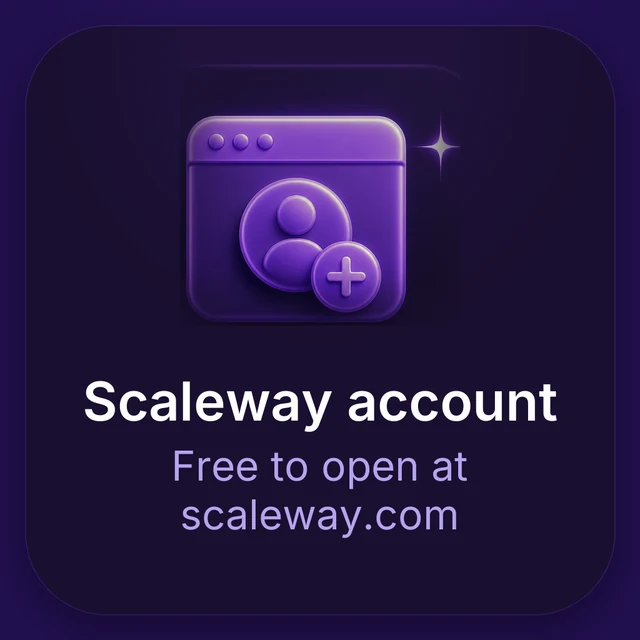
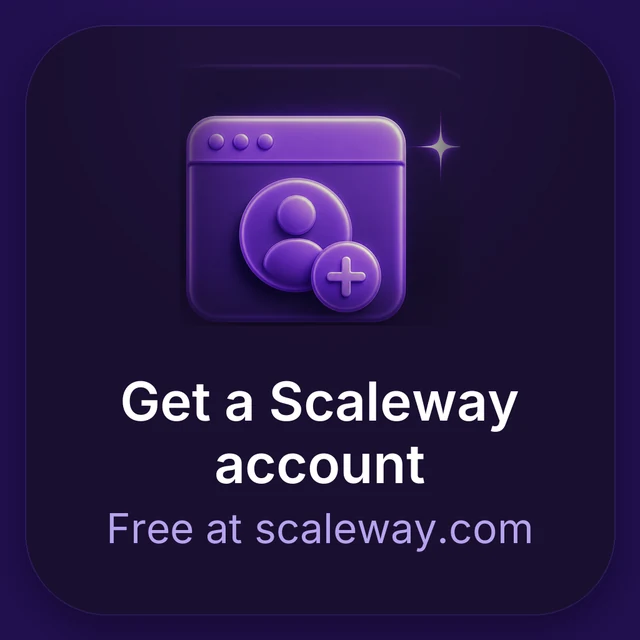
Three-step setup strip, source link, and the name explained
Content-only redeploy of the 1.3.1 page — same version, same release date, same
installers and checksums.

- The setup strip drops from five cards to three. Pasting the key and chatting
  described what happens after the key exists, which a reader on the download
  page cannot act on, and they pushed the download buttons toward the fold.
  What they said is now prose under the strip, where it can be specific about
  the thing that catches people out: Scaleway shows the key once.
- The footer links the public source, on the download page and the policy
  pages, so "free and open source" has somewhere to go.
- One line on where the name comes from.
- The affiliation line drops Ollama, which the page no longer mentions
  anywhere else.

Changed region(s): [[0.125, 0.5938, 0.875, 0.875]]

diff --git a/index.html b/index.html
@@ -57,10 +57,12 @@
       color: var(--muted);
     }
 
-    /* Five steps from download to first answer, shown before the buttons so a
-       reader knows what they are committing to. Auto-fit rather than fixed
-       columns, so it reflows to fewer per row on a narrow screen instead of
-       scrolling sideways or crushing the text. */
+    /* Three steps, each one a thing the reader does before the app can run.
+       Pasting the key and chatting used to be cards four and five; they are
+       prose below the strip now, because a card can only hold a caption and the
+       one thing that catches people out — the key is shown once — needs a
+       sentence. Auto-fit rather than fixed columns, so it reflows to fewer per
+       row on a narrow screen instead of scrolling sideways or crushing text. */
     .steps {
       display: grid;
       grid-template-columns: repeat(auto-fit, minmax(168px, 1fr));
@@ -118,18 +120,6 @@
     a.step-art { text-decoration: none; }
     a.step-art:hover img { outline: 2px solid var(--accent); outline-offset: -1px; }
 
-    /* The payoff step, marked so the eye lands on where this is going. The ring
-       goes on the picture, since the picture is the card. */
-    .step.done .step-art img {
-      outline: 2px solid color-mix(in srgb, var(--accent) 62%, transparent);
-      outline-offset: -1px;
-    }
-    .step.done .step-n {
-      background: var(--accent);
-      border-color: var(--accent);
-      color: #fff;
-    }
-
     /* Chevrons between steps, drawn only when they are actually side by side.
        Decorative: the numbers carry the order for anyone who cannot see them. */
     @media (min-width: 900px) {
@@ -178,9 +168,23 @@
     .sums td.file { white-space: nowrap; padding-right: 16px; }
     .sums code { font-family: ui-monospace, SFMono-Regular, Menlo, monospace; word-break: break-all; color: var(--muted); }
 
+    /* The half of setup that a caption cannot carry. Sits under the strip and
+       inside the text column, so it reads as its footnote, not a new section. */
+    .steps-note {
+      margin: -18px 0 32px;
+      color: var(--muted);
+      font-size: 14px;
+      line-height: 1.65;
+    }
+    .steps-note strong { color: var(--text); }
+
     footer { margin-top: 48px; text-align: center; color: var(--muted); font-size: 13px; line-height: 1.7; }
     footer a { color: var(--accent-2); }
     footer .legal { margin: 14px 0 6px; }
+    /* The name is coined and reads as nothing on first contact; one line turns
+       it into a mnemonic for what the app does. Sized below the legal line so
+       it reads as an aside, not a claim. */
+    footer .name-note { margin: 10px 0 0; font-size: 12px; opacity: 0.85; }
   </style>
 </head>
 <body>
@@ -193,26 +197,27 @@
 
     <ol class="steps">
       <li class="step">
-        <a class="step-art" href="#downloads"><img src="steps/download.webp" alt="Download. macOS, Windows or Linux" width="640" height="640" loading="lazy" /></a>
+        <a class="step-art" href="#downloads"><img src="steps/download.webp" alt="Download the app. macOS, Windows or Linux" width="640" height="640" loading="lazy" /></a>
         <span class="step-n">1</span>
       </li>
       <li class="step">
-        <a class="step-art" href="https://console.scaleway.com/register" rel="noopener"><img src="steps/createAccount.webp" alt="Scaleway account. Free to open at scaleway.com" width="640" height="640" loading="lazy" /></a>
+        <a class="step-art" href="https://console.scaleway.com/register" rel="noopener"><img src="steps/createAccount.webp" alt="Get a Scaleway account. Free at scaleway.com" width="640" height="640" loading="lazy" /></a>
         <span class="step-n">2</span>
       </li>
       <li class="step">
-        <span class="step-art"><img src="steps/genKey.webp" alt="Generate a key. Copy it — Scaleway shows it once" width="640" height="640" loading="lazy" /></span>
+        <span class="step-art"><img src="steps/genKey.webp" alt="Generate an API key. Copy it — Scaleway shows it once" width="640" height="640" loading="lazy" /></span>
         <span class="step-n">3</span>
       </li>
-      <li class="step">
-        <span class="step-art"><img src="steps/pasteKey.webp" alt="Paste it in. The first thing the app asks for" width="640" height="640" loading="lazy" /></span>
-        <span class="step-n">4</span>
-      </li>
-      <li class="step done">
-        <span class="step-art"><img src="steps/chat.webp" alt="Chat. Your key stays on your device" width="640" height="640" loading="lazy" /></span>
-        <span class="step-n">✓</span>
-      </li>
     </ol>
+
+    <p class="steps-note">
+      <strong>Scaleway shows the key once</strong>, at the moment you create it —
+      copy it before you leave that page. Nobody can retrieve it afterwards, not
+      Scaleway and not us; if it is lost you simply generate another. Then paste
+      it into Sovatela: it is the first thing the app asks for, and it goes
+      straight into your device's keychain. This app has no server of its own for
+      it to reach.
+    </p>
 
     <main class="downloads" id="downloads">
       <!-- macOS (universal: Apple Silicon + Intel) -->
@@ -292,9 +297,20 @@
       </p>
       <p class="legal">
         Published by <strong>Jacob Bergmann Larsen</strong> ·
-        <a href="mailto:info@anaubi.com">info@anaubi.com</a>
+        <a href="mailto:info@anaubi.com">info@anaubi.com</a> ·
+        <a href="https://github.com/jacobla1/sovatela">Source on GitHub</a>
       </p>
-      <p>Version 1.3.1 · Released 2026-08-18 · Not affiliated with Z.ai, Scaleway, or Ollama</p>
+      <p class="name-note">
+        <strong>Sovatela</strong> — <em>sova</em>, the owl, for wisdom;
+        <em>tutela</em>, Latin for guardianship.
+      </p>
+      <!-- Name only the marks this page actually uses. Ollama was named here
+           long after the copy that mentioned it had gone, so the page was
+           disclaiming a company it never invoked. Anthropic is not named for
+           the same reason: Claude Code is an Advanced setting inside the app,
+           and it carries its own "nothing here is endorsed by Anthropic" notice
+           at the point of use. If Claude is ever named on this page, add it. -->
+      <p>Version 1.3.1 · Released 2026-08-18 · Not affiliated with Z.ai or Scaleway</p>
     </footer>
   </div>
 </body>

diff --git a/accessibility/index.html b/accessibility/index.html
@@ -211,7 +211,8 @@ legally required to fix them.</p>
       </p>
       <p>
         Published by <strong>Jacob Bergmann Larsen</strong> ·
-        <a href="mailto:info@anaubi.com">info@anaubi.com</a>
+        <a href="mailto:info@anaubi.com">info@anaubi.com</a> ·
+        <a href="https://github.com/jacobla1/sovatela">Source on GitHub</a>
       </p>
     </footer>
   </div>
